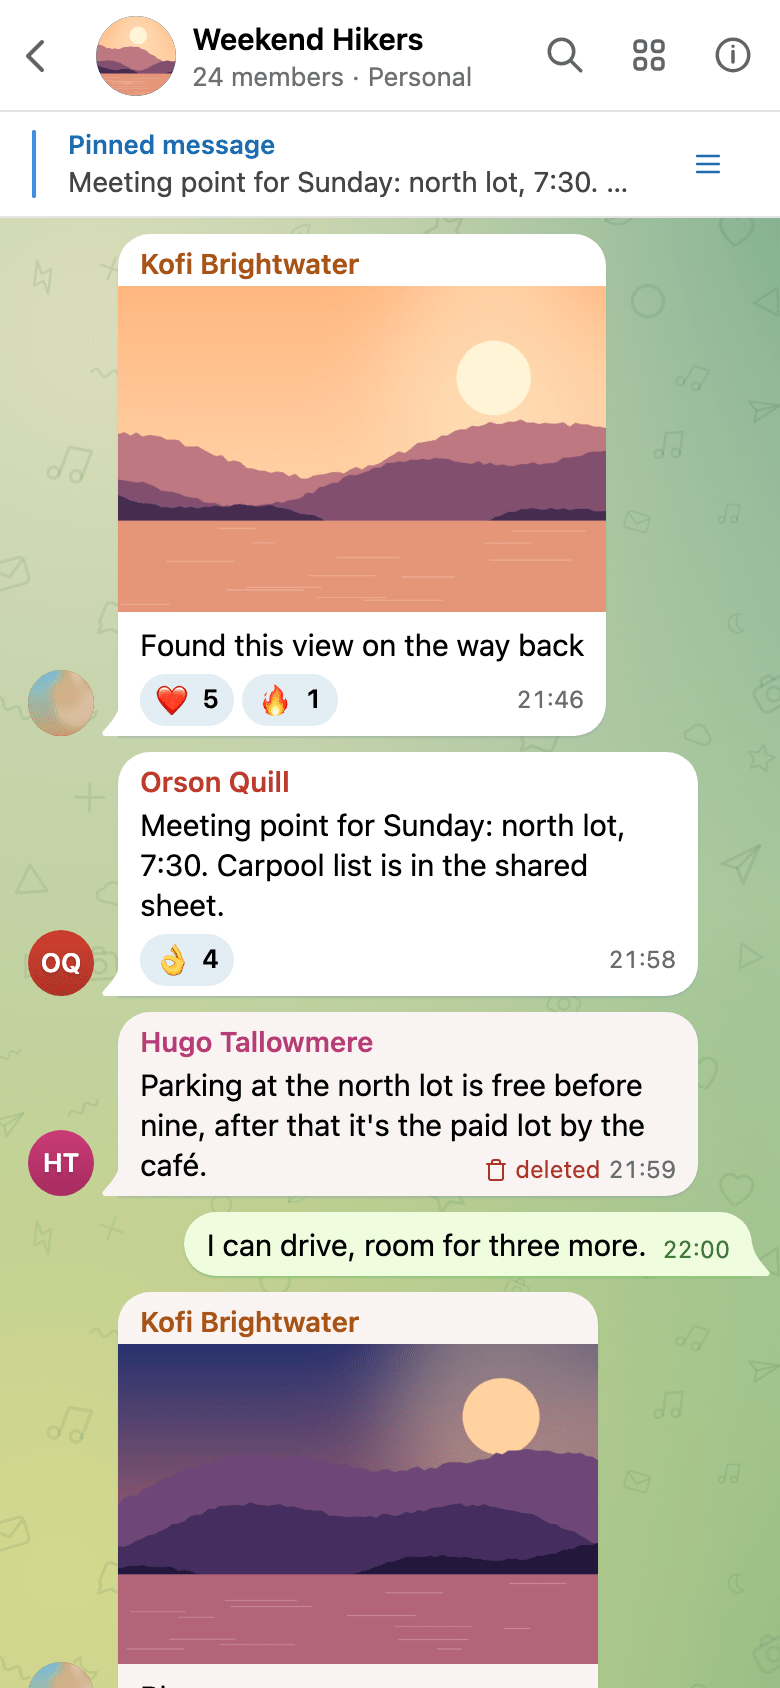
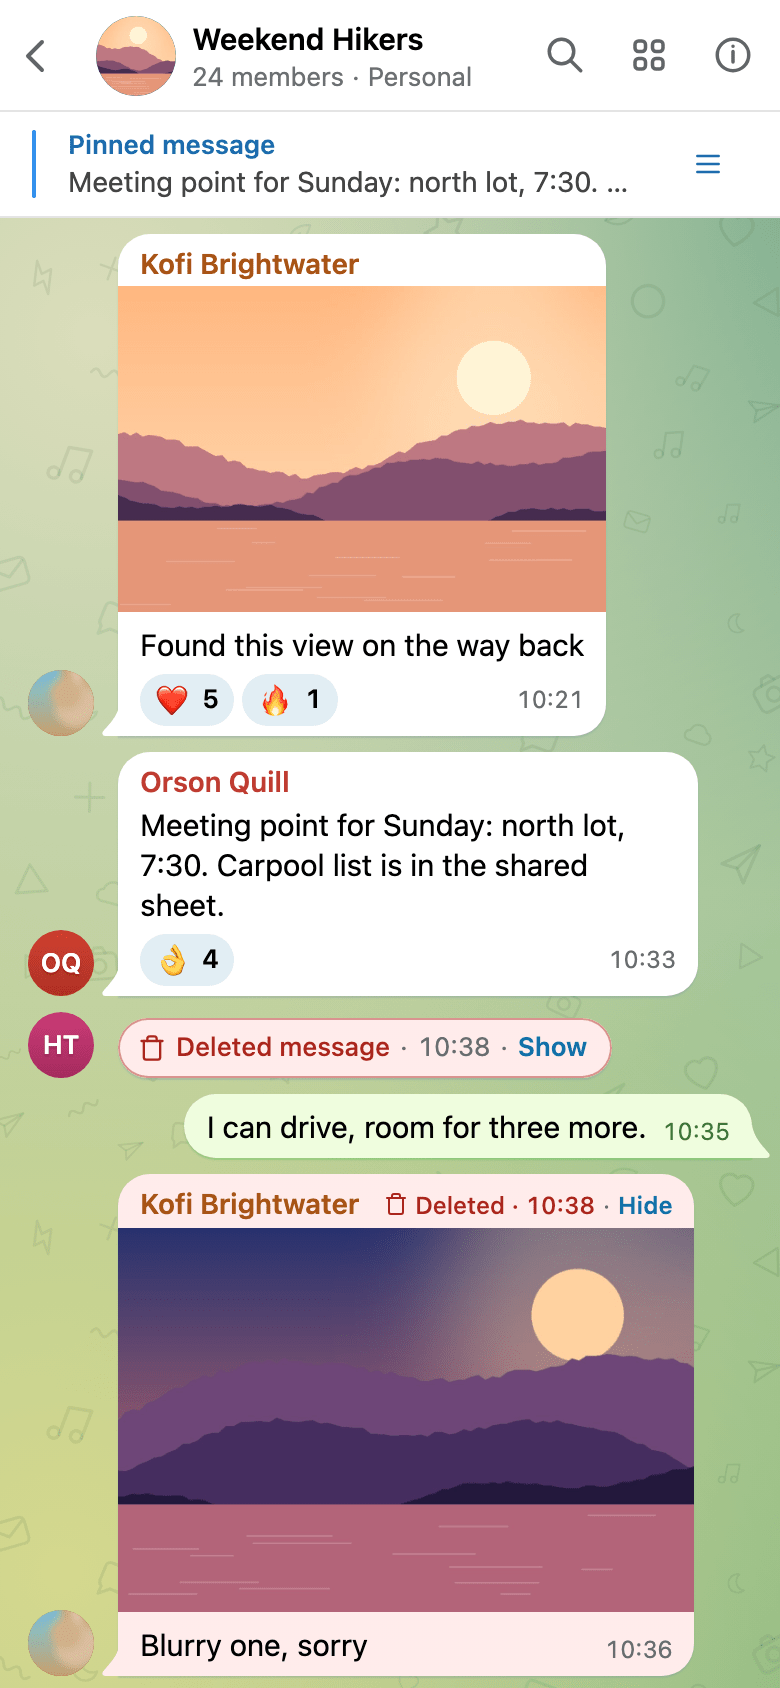
docs(viewer): deletion screenshots and docs for the folded view

Changed region(s): [[0.0308, 0.5545, 0.9846, 1.0], [0.6769, 0.4005, 0.7385, 0.4313]]

diff --git a/docs/CHANGELOG.md b/docs/CHANGELOG.md
@@ -14,6 +14,7 @@ For upgrade instructions, see [Upgrading](#upgrading) at the bottom.
 - **Match system and four new themes.** The theme picker gains Match system, the new default, plus Telegram Day, iOS Night, Minimal and Graphite, for twelve entries: Match system, Telegram Day, Telegram Night, iOS Night, Slate, Minimal, Graphite, AMOLED, Forest, Aubergine, Day and Paper. Telegram Day draws Telegram's line pattern over a green gradient, and iOS Night and Slate draw a dark version of it. The pattern ships with the viewer as a static file. See [Themes and wallpaper](viewer/themes.md).
 
 ### Changed
+- **A deleted message folds to one line, and the chat menu lists a chat's deletions.** A deleted message now shows as a red-tinted line in its place, "Deleted photo · 21:59 · Show". **Show** opens it with "Deleted · 21:59" at the head of the bubble, and **Hide** folds it again; a reply quote, a search hit, a link or any other jump opens its target by itself. The time is when the archive noticed the deletion, with the date when that is another day, and the time in the bubble's corner is the send time again. It used to sit next to "deleted", where it read as the deletion time. The red tint is stronger in every theme, and every text keeps 4.5:1 on it. **More actions**, **Deleted messages** opens the chat search in a **Deleted only** mode that lists the chat's deletions, each with **Show in chat**. `/api/chats/{ref}/messages` takes `deleted_only=true`, a read-only filter that keeps the viewer's chat and account restrictions. See [Deleted messages](viewer/using-the-viewer.md#deleted-messages).
 - **The viewer follows the system light or dark setting by default.** The new default theme, Match system, shows Telegram Day (a green wallpaper with a line pattern, white and light green bubbles) on a light system and Telegram Night on a dark one, and it switches while the page is open. Browsers that never picked a theme move from Slate to Match system; a saved choice and every `?theme=` link keep working, and `VIEWER_DEFAULT_THEME` can still pin one theme. Slate, Telegram Night, Day and Paper are retuned, every theme keeps text at 4.5:1 or more, message bubbles are opaque everywhere, and the browser bar takes the theme's header colour. Text uses the system font stack, as Telegram's own apps do, and the viewer no longer loads or ships the Inter font. `VIEWER_CHAT_BACKGROUND` now replaces the theme's own wallpaper. The chat info panel counts the deleted and edited messages the archive kept for that chat, and `/api/chats/{ref}/stats` returns them as `deleted_messages` and `edited_messages`. The photo viewer shows the caption and a **Show in chat** button, also for a photo opened from Shared Media (`/api/chats/{ref}/media` items now carry the message's `text`, `is_deleted` and `deleted_at`). See [Themes and wallpaper](viewer/themes.md).
 - **Chats read like Telegram.** Bubbles in a run join with tight corners, and the last one carries the tail and the sender's photo. A run ends when the sender changes, at a new day, or after a pause of more than 15 minutes, so it follows the turns of the conversation. The time sits at the end of the last line, photos and albums run to the bubble's edge, and stickers and round videos stand on the wallpaper. Polls show their results as Telegram does, with the vote count on the time's line, and a voice message reads "Voice message" over its duration and size, with its transcript and download buttons side by side. Messages stay in a 760px column on a wide screen. The chat list rows are shorter: a group or a channel shows its kind and member count (`channel · 4,210 subscribers`) and a private chat the person's username, in place of the id. The chat header is one bar with search, shared media and the info panel, the member count, or the kind of chat, under the name, and export and expand-all-transcripts behind a **More actions** menu. Date pills leave out the current year. The pinned bar drops the pinned message's time, folder tabs drop their chat count (it moved to the tooltip) and hide inside Archived Chats, and Shared Media shows denser tiles under one header with its tabs, leaving out an empty tab. The chat's figures moved to the info panel. Photos open from the keyboard, and on a phone the photo viewer moves with a swipe.
 - **What only the archive knows looks like part of Telegram.** Each archive fact sits where Telegram puts a similar one, in calm colours, with one icon family (Font Awesome is no longer loaded or shipped) and one way of writing numbers, sizes and times:

diff --git a/docs/viewer/using-the-viewer.md b/docs/viewer/using-the-viewer.md
@@ -151,11 +151,17 @@ An edited message shows "edited" before its time, as Telegram does. When the arc
 
 ### Deleted messages
 
-A deleted message stays in place with its text in full. A faint wash of a calm red marks the bubble, and before its time the meta line reads "deleted" with a trash mark. The tooltip says when Telegram deleted it; the time beside it is still the time it was sent. On a photo with nothing else, the trash rides the time over the corner. An album carries one mark on its caption bubble when any of its pictures was deleted. The info panel shows the deletion as a fact, "Deleted in Telegram" with its date. The archive only learns about deletions when the listener runs with `LISTEN_DELETIONS=true` or the backup runs with `SYNC_DELETIONS_EDITS=true`. Both are off by default. With `DELETION_MODE=soft`, the default, the row is kept and marked. With `hard` it is removed.
+A deleted message stays in the chat, folded to one line in its place. The line holds a trash, what was deleted, the time and **Show**. What was deleted reads "Deleted message", "Deleted photo", "Deleted video", "Deleted voice message", "Deleted sticker" or "Deleted file". The line sits on the message's side and takes a red tint, so a deletion stands out while you scroll. In a group it names the sender at the start of a run; on a phone the avatar beside it does.
+
+**Show** opens the message with its text in full. The bubble keeps the red tint, and the head of the bubble reads "Deleted · 21:59", at the end of the sender's line or on a line of its own. **Hide** folds it again. The time in the corner of the bubble is still the time it was sent. The viewer remembers what you opened until you reload the page. A message you reach by a jump opens by itself, whether the jump came from a reply quote, **Go to message**, a search hit, a link to the message or **Show in chat**. While the chat search is on, every message it finds shows open.
+
+The deletion time is when the archive noticed the deletion. Telegram does not say when a message was deleted, and the tooltip says so. The listener notices within seconds; the backup's check notices at its next run, so the time can be days later. When it falls on another day than the message, the date shows too: "Deleted · Sep 29, 21:59".
+
+On a photo with nothing else, the header rides the top corner of the picture. An album with some pictures deleted keeps its live pictures in view and reads "Picture deleted" at its head; it folds only when all of it was deleted. A reply to a deleted message keeps its quote, with a small trash after the name. The info panel shows the deletion as a fact, "Deleted in Telegram" with its date.
 
 === "Telegram Day"
 
-    ![A deleted text and a deleted photo, each with its calm deleted mark](../images/screenshots/chat-deleted.png)
+    ![A folded deleted message above an opened deleted photo that reads "Deleted · 10:38" at its head](../images/screenshots/chat-deleted.png)
 
 === "Telegram Night"
 
@@ -164,6 +170,18 @@ A deleted message stays in place with its text in full. A faint wash of a calm r
 === "Phone"
 
     ![The deleted messages on a phone](../images/screenshots/chat-deleted-mobile.png){ width="300" }
+
+To see every deletion of a chat, open **More actions**, the three dots in the chat header, and choose **Deleted messages**. The item shows the chat's count and is hidden when the chat has none. It opens the chat search in a **Deleted only** mode: the chat shows only its deleted messages, open, with their days, and the search field narrows them further. Each one has **Show in chat**, which leaves the mode and goes to the message in the chat around it. The pressed **Deleted only** chip under the header removes the filter; the search's close button and <kbd>Esc</kbd> leave too. On a phone, the **Deleted messages** row of the chat's info panel does the same.
+
+=== "The menu"
+
+    ![More actions with Deleted messages and its count](../images/screenshots/deleted-menu.png)
+
+=== "Deleted only"
+
+    ![The chat search in its Deleted only mode, listing the chat's two deleted messages](../images/screenshots/deleted-only.png)
+
+The archive only learns about deletions when the listener runs with `LISTEN_DELETIONS=true` or the backup runs with `SYNC_DELETIONS_EDITS=true`. Both are off by default. With `DELETION_MODE=soft`, the default, the row is kept and marked. With `hard` it is removed.
 
 ### Service messages
 

diff --git a/docs/reference/api.md b/docs/reference/api.md
@@ -190,7 +190,7 @@ All of these need a login that can see the chat.
 
 | Method and path | Parameters | Response |
 |-----------------|-----------|----------|
-| `GET /api/chats/{chat_ref}/messages` | `limit` default 50, 1 to 500. `offset`. `search`. `topic_id`. Cursor: `before_date` plus `before_id`, `before_id` alone, or `after_id`. See [Paging through messages](#paging-through-messages). | A JSON array of messages, newest first |
+| `GET /api/chats/{chat_ref}/messages` | `limit` default 50, 1 to 500. `offset`. `search`. `topic_id`. `deleted_only`, default false. Cursor: `before_date` plus `before_id`, `before_id` alone, or `after_id`. See [Paging through messages](#paging-through-messages). | A JSON array of messages, newest first |
 | `GET /api/chats/{chat_ref}/messages/{message_id}/versions` | `limit` default 100, up to 500 | Earlier versions of an edited message |
 | `GET /api/chats/{chat_ref}/pinned` | None | Pinned messages, newest first |
 | `GET /api/chats/{chat_ref}/messages/by-date` | `date` as `YYYY-MM-DD`. `timezone` as an IANA name, optional; defaults to the viewer's configured timezone. `topic_id`. | The first message on or after local midnight of that day, or 404 |
@@ -209,6 +209,13 @@ curl -s -b jar.txt \
 ```
 
 A lone `before_id=N` returns messages with ids below N. `after_id=N` returns messages with ids above N.
+
+`deleted_only=true` keeps only the messages deleted in Telegram that the archive kept, the rows with `is_deleted` set to 1, newest first. It works with or without `search`: without it you get every kept deletion of the chat, with it the deletions that match. It combines with `topic_id` and the cursors like the other filters. It is a read and stays inside the chat the ref names, so a viewer restricted to some chats or accounts, or a share link, gets the same 404 for another chat as without it.
+
+```bash
+curl -s -b jar.txt \
+  'http://localhost:8000/api/chats/<ref>/messages?limit=50&offset=0&deleted_only=true'
+```
 
 Each message nests its media. `media.id` is the media key, `{message_id}_{type}`, and `media.url` is `/media/{chat_ref}/{key}`. `sender_avatar_url` points at `/media/avatar/{chat_ref}/{message_id}`. Transcripts are attached when transcription is on.
 

diff --git a/docs/design/deleted-messages.md b/docs/design/deleted-messages.md
@@ -1,5 +1,7 @@
 # Deleted messages: eight ways to show them
 
+> **Decision.** We chose **F, folded by default**: a deleted message is a one-line pill in its place. **Show** opens it as **A**, with "Deleted · 21:59" at the head of the bubble, under a stronger red tint than the pictures below. The finder from **H** lives in the chat's **More actions** menu, as "Deleted messages", and opens the chat search in a "Deleted only" mode; there is no chip in the header. [Deleted messages](../viewer/using-the-viewer.md#deleted-messages) describes what shipped.
+
 When the archive keeps a message that was deleted in Telegram, the viewer shows it with a faint red wash on the bubble and a trash icon with "deleted" beside the time. It is calm and readable, but easy to miss. In a long chat the wash is close to invisible, and the word sits in the smallest text of the bubble. This document shows eight other ways to mark a deleted message, rendered on the real viewer, so we can pick one.
 
 Every variant is an override stylesheet in its folder, loaded into the viewer after its own styles. A, C, F and H also need an element the viewer does not draw yet: A, F and H each add a small script, and C reuses A's. We changed no template or app code for the pictures. [`rig/shoot.mjs`](rig/shoot.mjs) took them against the demo archive from [`scripts/generate_dummy_db.py`](../../scripts/generate_dummy_db.py), which has fake chats and people and two deleted messages in one group: a text and a photo with a caption. Desktop pictures are 1440 by 900, cropped to the message column; phone pictures are 390 by 844 at 2x, kept whole. Each variant is shown in Telegram Day and Telegram Night.
